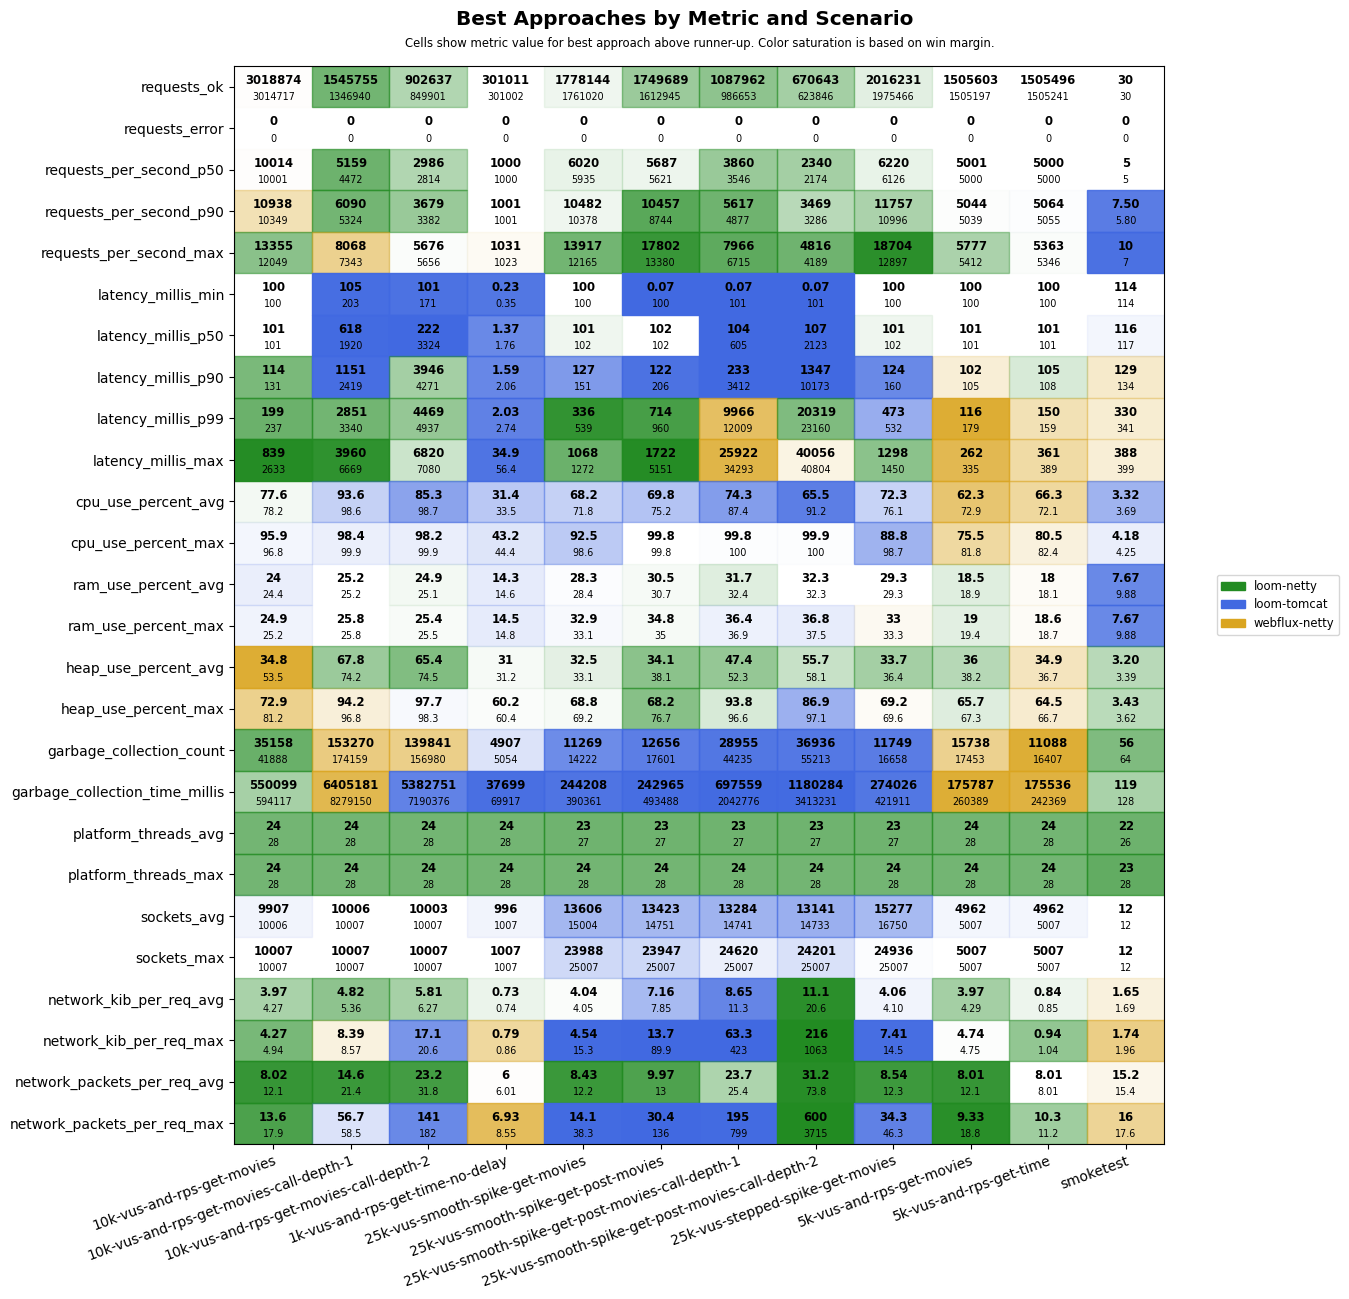
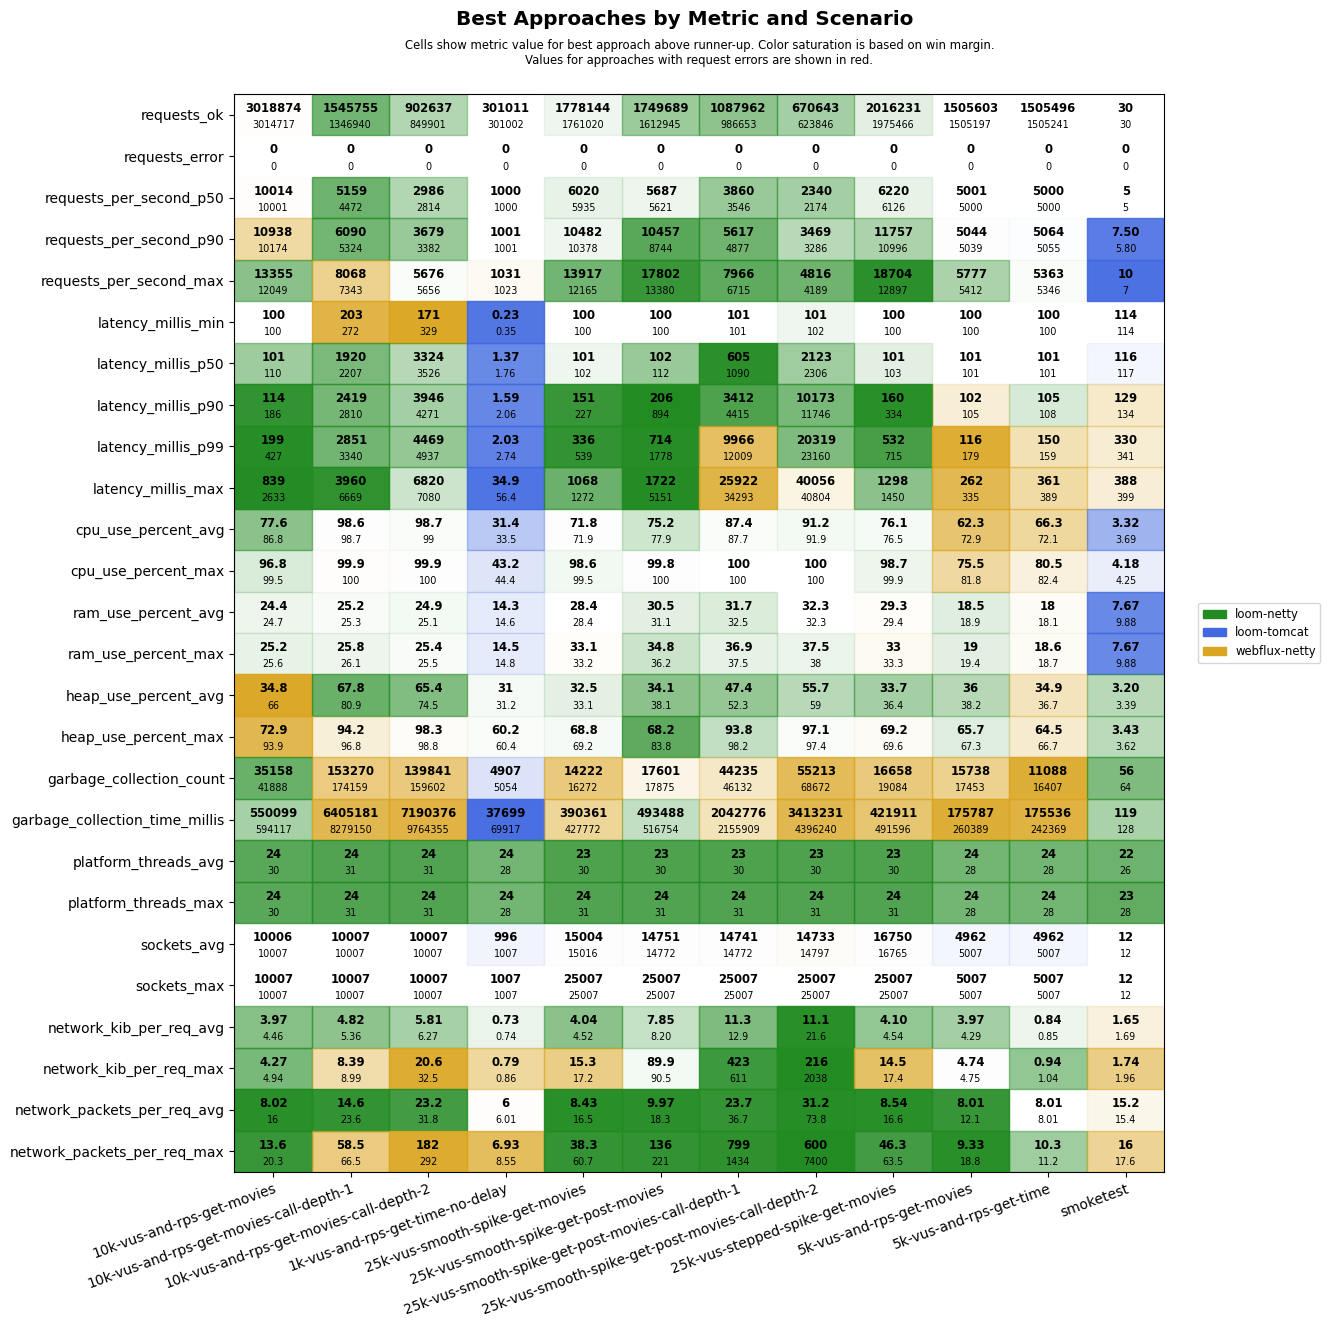
Derank appraoches with request errors

diff --git a/src/main/resources/scenarios/get-post-movies-sharp-vus-spikes.js b/src/main/resources/scenarios/get-post-movies-sharp-vus-spikes.js
@@ -1,0 +1,236 @@
+import http from 'k6/http';
+import {sleep} from 'k6';
+
+const getMovies1Url = getMoviesUrl("Allen")
+const getMovies2Url = getMoviesUrl("Kubrick")
+const getMovies3Url = getMoviesUrl("Hitchcock")
+const postMoviesUrl = __ENV.SERVICE_API_BASE_URL + "/movies?delayCallDepth=" + __ENV.DELAY_CALL_DEPTH + "&delayInMillis=" + __ENV.DELAY_IN_MILLIS
+const moviesJson = JSON.stringify(JSON.parse(open("./movies.json")));
+const stageDuration = 0.025 * __ENV.DURATION_IN_SECONDS + 's'
+
+function getMoviesUrl(directorLastName) {
+    return __ENV.SERVICE_API_BASE_URL + "/movies?directorLastName=" + directorLastName + "&delayCallDepth=" + __ENV.DELAY_CALL_DEPTH + "&delayInMillis=" + __ENV.DELAY_IN_MILLIS
+}
+
+export function getMovies1() {
+    http.get(getMovies1Url)
+    sleep(2 * Math.random() + 1); // between 1s and 3s
+}
+
+export function getMovies2() {
+    http.get(getMovies2Url)
+    sleep(2 * Math.random() + 1); // between 1s and 3s
+}
+
+export function getMovies3() {
+    http.get(getMovies3Url)
+    sleep(2 * Math.random() + 1); // between 1s and 3s
+}
+
+export function postMovies() {
+    http.post(postMoviesUrl, moviesJson, {
+        headers: {
+            'Content-Type': 'application/json',
+            'Accept': 'application/json'
+        }
+    })
+    sleep(2 * Math.random() + 1); // between 1s and 3s
+}
+
+export const options = {
+    scenarios: {
+        getMovies1: {
+            executor: 'ramping-vus',
+            exec: 'getMovies1',
+            startVUs: 0,
+            gracefulStop: '2s',
+            stages: [
+                // Identical for all scenarios
+                {target: __ENV.VUS / 4, duration: stageDuration},
+                {target: __ENV.VUS / 4, duration: stageDuration},
+                {target: 0, duration: stageDuration},
+                {target: 0, duration: stageDuration},
+                {target: __ENV.VUS / 4, duration: stageDuration},
+                {target: __ENV.VUS / 4, duration: stageDuration},
+                {target: 0, duration: stageDuration},
+                {target: 0, duration: stageDuration},
+                {target: __ENV.VUS / 4, duration: stageDuration},
+                {target: __ENV.VUS / 4, duration: stageDuration},
+                {target: 0, duration: stageDuration},
+                {target: 0, duration: stageDuration},
+                {target: __ENV.VUS / 4, duration: stageDuration},
+                {target: __ENV.VUS / 4, duration: stageDuration},
+                {target: 0, duration: stageDuration},
+                {target: 0, duration: stageDuration},
+                {target: __ENV.VUS / 4, duration: stageDuration},
+                {target: __ENV.VUS / 4, duration: stageDuration},
+                {target: 0, duration: stageDuration},
+                {target: 0, duration: stageDuration},
+                {target: __ENV.VUS / 4, duration: stageDuration},
+                {target: __ENV.VUS / 4, duration: stageDuration},
+                {target: 0, duration: stageDuration},
+                {target: 0, duration: stageDuration},
+                {target: __ENV.VUS / 4, duration: stageDuration},
+                {target: __ENV.VUS / 4, duration: stageDuration},
+                {target: 0, duration: stageDuration},
+                {target: 0, duration: stageDuration},
+                {target: __ENV.VUS / 4, duration: stageDuration},
+                {target: __ENV.VUS / 4, duration: stageDuration},
+                {target: 0, duration: stageDuration},
+                {target: 0, duration: stageDuration},
+                {target: __ENV.VUS / 4, duration: stageDuration},
+                {target: __ENV.VUS / 4, duration: stageDuration},
+                {target: 0, duration: stageDuration},
+                {target: 0, duration: stageDuration},
+                {target: __ENV.VUS / 4, duration: stageDuration},
+                {target: __ENV.VUS / 4, duration: stageDuration},
+                {target: 0, duration: stageDuration},
+                {target: 0, duration: stageDuration},
+            ],
+        },
+        getMovies2: {
+            executor: 'ramping-vus',
+            exec: 'getMovies2',
+            startVUs: 0,
+            gracefulStop: '2s',
+            stages: [
+                {target: __ENV.VUS / 4, duration: stageDuration},
+                {target: __ENV.VUS / 4, duration: stageDuration},
+                {target: 0, duration: stageDuration},
+                {target: 0, duration: stageDuration},
+                {target: __ENV.VUS / 4, duration: stageDuration},
+                {target: __ENV.VUS / 4, duration: stageDuration},
+                {target: 0, duration: stageDuration},
+                {target: 0, duration: stageDuration},
+                {target: __ENV.VUS / 4, duration: stageDuration},
+                {target: __ENV.VUS / 4, duration: stageDuration},
+                {target: 0, duration: stageDuration},
+                {target: 0, duration: stageDuration},
+                {target: __ENV.VUS / 4, duration: stageDuration},
+                {target: __ENV.VUS / 4, duration: stageDuration},
+                {target: 0, duration: stageDuration},
+                {target: 0, duration: stageDuration},
+                {target: __ENV.VUS / 4, duration: stageDuration},
+                {target: __ENV.VUS / 4, duration: stageDuration},
+                {target: 0, duration: stageDuration},
+                {target: 0, duration: stageDuration},
+                {target: __ENV.VUS / 4, duration: stageDuration},
+                {target: __ENV.VUS / 4, duration: stageDuration},
+                {target: 0, duration: stageDuration},
+                {target: 0, duration: stageDuration},
+                {target: __ENV.VUS / 4, duration: stageDuration},
+                {target: __ENV.VUS / 4, duration: stageDuration},
+                {target: 0, duration: stageDuration},
+                {target: 0, duration: stageDuration},
+                {target: __ENV.VUS / 4, duration: stageDuration},
+                {target: __ENV.VUS / 4, duration: stageDuration},
+                {target: 0, duration: stageDuration},
+                {target: 0, duration: stageDuration},
+                {target: __ENV.VUS / 4, duration: stageDuration},
+                {target: __ENV.VUS / 4, duration: stageDuration},
+                {target: 0, duration: stageDuration},
+                {target: 0, duration: stageDuration},
+                {target: __ENV.VUS / 4, duration: stageDuration},
+                {target: __ENV.VUS / 4, duration: stageDuration},
+                {target: 0, duration: stageDuration},
+                {target: 0, duration: stageDuration},
+            ],
+        },
+        getMovies3: {
+            executor: 'ramping-vus',
+            exec: 'getMovies3',
+            startVUs: 0,
+            gracefulStop: '2s',
+            stages: [
+                {target: __ENV.VUS / 4, duration: stageDuration},
+                {target: __ENV.VUS / 4, duration: stageDuration},
+                {target: 0, duration: stageDuration},
+                {target: 0, duration: stageDuration},
+                {target: __ENV.VUS / 4, duration: stageDuration},
+                {target: __ENV.VUS / 4, duration: stageDuration},
+                {target: 0, duration: stageDuration},
+                {target: 0, duration: stageDuration},
+                {target: __ENV.VUS / 4, duration: stageDuration},
+                {target: __ENV.VUS / 4, duration: stageDuration},
+                {target: 0, duration: stageDuration},
+                {target: 0, duration: stageDuration},
+                {target: __ENV.VUS / 4, duration: stageDuration},
+                {target: __ENV.VUS / 4, duration: stageDuration},
+                {target: 0, duration: stageDuration},
+                {target: 0, duration: stageDuration},
+                {target: __ENV.VUS / 4, duration: stageDuration},
+                {target: __ENV.VUS / 4, duration: stageDuration},
+                {target: 0, duration: stageDuration},
+                {target: 0, duration: stageDuration},
+                {target: __ENV.VUS / 4, duration: stageDuration},
+                {target: __ENV.VUS / 4, duration: stageDuration},
+                {target: 0, duration: stageDuration},
+                {target: 0, duration: stageDuration},
+                {target: __ENV.VUS / 4, duration: stageDuration},
+                {target: __ENV.VUS / 4, duration: stageDuration},
+                {target: 0, duration: stageDuration},
+                {target: 0, duration: stageDuration},
+                {target: __ENV.VUS / 4, duration: stageDuration},
+                {target: __ENV.VUS / 4, duration: stageDuration},
+                {target: 0, duration: stageDuration},
+                {target: 0, duration: stageDuration},
+                {target: __ENV.VUS / 4, duration: stageDuration},
+                {target: __ENV.VUS / 4, duration: stageDuration},
+                {target: 0, duration: stageDuration},
+                {target: 0, duration: stageDuration},
+                {target: __ENV.VUS / 4, duration: stageDuration},
+                {target: __ENV.VUS / 4, duration: stageDuration},
+                {target: 0, duration: stageDuration},
+                {target: 0, duration: stageDuration},
+            ],
+        },
+        postMovies: {
+            executor: 'ramping-vus',
+            exec: 'postMovies',
+            startVUs: 0,
+            gracefulStop: '2s',
+            stages: [
+                {target: __ENV.VUS / 4, duration: stageDuration},
+                {target: __ENV.VUS / 4, duration: stageDuration},
+                {target: 0, duration: stageDuration},
+                {target: 0, duration: stageDuration},
+                {target: __ENV.VUS / 4, duration: stageDuration},
+                {target: __ENV.VUS / 4, duration: stageDuration},
+                {target: 0, duration: stageDuration},
+                {target: 0, duration: stageDuration},
+                {target: __ENV.VUS / 4, duration: stageDuration},
+                {target: __ENV.VUS / 4, duration: stageDuration},
+                {target: 0, duration: stageDuration},
+                {target: 0, duration: stageDuration},
+                {target: __ENV.VUS / 4, duration: stageDuration},
+                {target: __ENV.VUS / 4, duration: stageDuration},
+                {target: 0, duration: stageDuration},
+                {target: 0, duration: stageDuration},
+                {target: __ENV.VUS / 4, duration: stageDuration},
+                {target: __ENV.VUS / 4, duration: stageDuration},
+                {target: 0, duration: stageDuration},
+                {target: 0, duration: stageDuration},
+                {target: __ENV.VUS / 4, duration: stageDuration},
+                {target: __ENV.VUS / 4, duration: stageDuration},
+                {target: 0, duration: stageDuration},
+                {target: 0, duration: stageDuration},
+                {target: __ENV.VUS / 4, duration: stageDuration},
+                {target: __ENV.VUS / 4, duration: stageDuration},
+                {target: 0, duration: stageDuration},
+                {target: 0, duration: stageDuration},
+                {target: __ENV.VUS / 4, duration: stageDuration},
+                {target: __ENV.VUS / 4, duration: stageDuration},
+                {target: 0, duration: stageDuration},
+                {target: 0, duration: stageDuration},
+                {target: __ENV.VUS / 4, duration: stageDuration},
+                {target: __ENV.VUS / 4, duration: stageDuration},
+                {target: 0, duration: stageDuration},
+                {target: 0, duration: stageDuration},
+                {target: __ENV.VUS / 4, duration: stageDuration},
+                {target: __ENV.VUS / 4, duration: stageDuration},
+                {target: 0, duration: stageDuration},
+                {target: 0, duration: stageDuration},
+            ],
+        },
+    },
+};

diff --git a/src/main/python/results_chart.py b/src/main/python/results_chart.py
@@ -16,10 +16,16 @@ APPROACH = 'approach'
 
 
 @dataclass
+class Result:
+    value: float
+    errors: bool
+
+
+@dataclass
 class Color:
     name: str
     saturation: float
-    results: List[float] = field(default_factory=list)
+    results: List[Result] = field(default_factory=list)
 
 
 def format_float(value):
@@ -94,10 +100,17 @@ class CSVRenderer:
             color_row = []
             for scenario in self.scenarios:
                 result_by_approach = {row[APPROACH]: float(row[metric]) for row in self.csv_rows if row[SCENARIO] == scenario}
+                errors_by_approach = {row[APPROACH]: int(row["requests_error"]) > 0 for row in self.csv_rows if row[SCENARIO] == scenario}
                 more_is_better = self.more_is_better_by_metric_name.get(metric_prefix(metric), False) if "error" not in metric else False
-                ranked_approaches = sorted([approach for approach in result_by_approach.keys() if approach in self.approaches], key=lambda x: result_by_approach[x],
-                                           reverse=more_is_better)
-                ranked_results = [result_by_approach[approach] for approach in ranked_approaches]
+
+                # Sort primarily by whether there are errors (False < True), and secondarily by the metric value (reversed if more_is_better)
+                ranked_approaches = sorted(
+                    [approach for approach in result_by_approach.keys() if approach in self.approaches],
+                    key=lambda x: (errors_by_approach[x], -result_by_approach[x] if more_is_better else result_by_approach[x])
+                )
+
+                ranked_results = [Result(result_by_approach[approach], errors_by_approach[approach]) for approach in ranked_approaches]
+
                 winning_approach = ranked_approaches[0]
                 runner_up_approach = ranked_approaches[min(len(ranked_approaches) - 1, 1)]
                 winning_result_delta_perc = calculate_winning_result_delta_perc(result_by_approach[winning_approach], result_by_approach[runner_up_approach])
@@ -123,11 +136,15 @@ class CSVRenderer:
                 for idx, result in enumerate(color.results[:2] if len(color.results) >= 2 else color.results):
                     text_col = col + 0.5
                     text_row = row + 0.35
-                    formatted_result = format_float(result)
+                    formatted_result = format_float(result.value)
+                    font_col = 'black'
+                    cell_text = f"{formatted_result}"
+                    if result.errors > 0:
+                        font_col = 'red'
                     if idx == 0:
-                        ax.text(text_col, text_row, f"{formatted_result}", ha='center', va='center', fontsize='small', weight='bold')
+                        ax.text(text_col, text_row, cell_text, ha='center', va='center', fontsize='small', weight='bold', color=font_col)
                     else:
-                        ax.text(text_col, text_row + 0.40 * idx, f"{formatted_result}", ha='center', va='center', fontsize='x-small')
+                        ax.text(text_col, text_row + 0.40 * idx, cell_text, ha='center', va='center', fontsize='x-small', color=font_col)
 
         ax.set_xticks([tick + 0.5 for tick in range(num_cols)])
         ax.set_xticklabels(self.scenarios, rotation=20, ha='right', rotation_mode='anchor')
@@ -137,10 +154,13 @@ class CSVRenderer:
         legend_handles = []
         for approach in sorted(self.color_name_by_approach):
             legend_handles.append(plt.Rectangle((0, 0), 1, 1, color=(self.color_name_by_approach[approach]), label=approach))
-        ax.legend(handles=legend_handles, loc='center left', bbox_to_anchor=(1.05, 0.5), fontsize='small')
+        ax.legend(handles=legend_handles, loc='center left', bbox_to_anchor=(1.03, 0.5), fontsize='small')
 
-        plt.suptitle('Best Approaches by Metric and Scenario', weight='bold', y=0.92, fontsize='x-large')
-        plt.title('Cells show metric value for best approach above runner-up. Color saturation is based on win margin.', y=1.01, size='small')
+        plt.suptitle('Best Approaches by Metric and Scenario', weight='bold', y=0.94, fontsize='x-large')
+        plt.title(
+            'Cells show metric value for best approach above runner-up. Color saturation is based on win margin.\n'
+            'Values for approaches with request errors are shown in red.',
+            y=1.02, size='small')
         plt.savefig(self.output_file, bbox_inches='tight')
         plt.close()
         log("Saved " + self.output_file)
